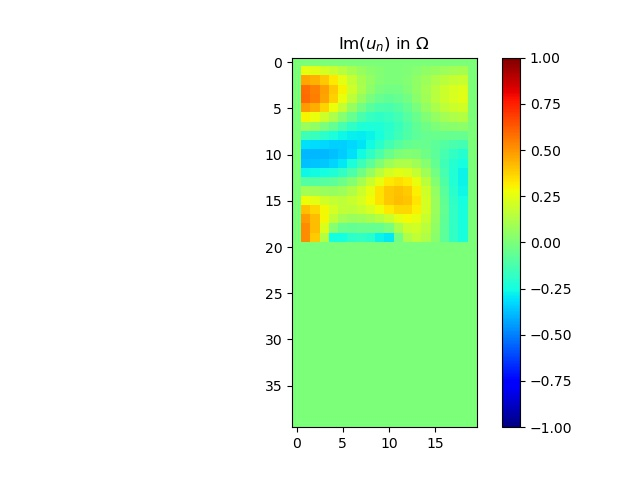
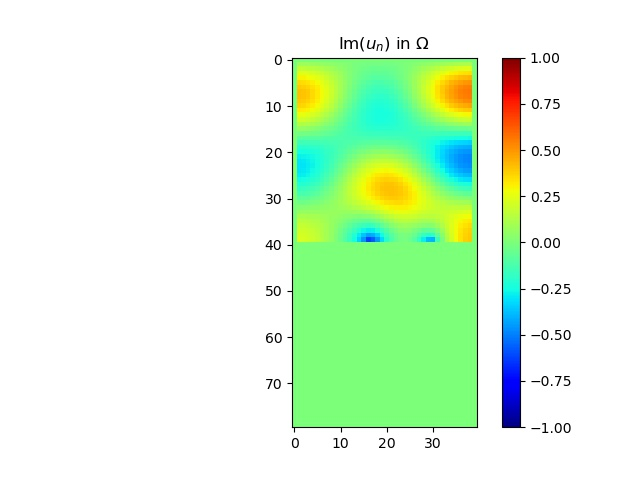
j

diff --git a/demo_control_polycopie.py b/demo_control_polycopie.py
@@ -26,8 +26,8 @@ def your_optimization_procedure(domain_omega, spacestep, wavenumber, f, f_dir, f
                                 beta_pde, alpha_pde, alpha_dir, beta_neu, beta_rob, alpha_rob,
                                 Alpha, mu, chi, V_obj, mu1, V_0):
 
-    eps1 = 0.01
-    eps2 = 0.01
+    eps1 = 1
+    eps2 = 0.03
     eps0 = 0.00001
     """This function return the optimized density.
 
@@ -58,48 +58,55 @@ def your_optimization_procedure(domain_omega, spacestep, wavenumber, f, f_dir, f
         # # ubis = u/numpy.max(numpy.abs(u))
         # postprocessing._plot_perso_solution(p, chi)
 
-        print('2. computing solution of adjoint problem, i.e., p')
+        # print('2. computing solution of adjoint problem, i.e., p')
         p = processing.solve_helmholtz(domain_omega, spacestep, wavenumber, -2 * numpy.conj(u), numpy.zeros(
             (M, N)), f_neu, f_rob, beta_pde, alpha_pde, alpha_dir, beta_neu, beta_rob, alpha_rob)
 
-        print('3. computing objective function, i.e., energy')
+        # print('3. computing objective function, i.e., energy')
 
         ene = your_compute_objective_function(
             domain_omega, u, spacestep, mu1, V_0)
+
+        print('1st energy = ', ene)
+
         energy[k] = ene
 
-        print('4. computing parametric gradient')
+        # print('4. computing parametric gradient')
 
         Jp = -numpy.real(Alpha*u*p)
 
         Jp[1:, :] = Jp[:-1, :]
 
-        print(Jp)
-
-        postprocessing._plot_perso_solution(Jp, chi*0)
-
         while ene >= energy[k] and mu > eps0:
             l = 0
-            print('    a. computing gradient descent')
+            # print('    a. computing gradient descent')
             chi_next = projector(chi-mu*Jp, l, domain_omega)
 
-            print('    b. computing projected gradient')
+            # postprocessing._plot_perso_solution(chi_next, chi*0)
 
-            while abs(integral(chi_next)-V_obj) >= eps1:
-                if integral(chi_next) > V_obj:
+            # print('    b. computing projected gradient')
+
+            int = integral(chi_next)
+            while abs(int-V_obj) >= eps1:
+                if int > V_obj:
                     l -= eps2
                 else:
                     l += eps2
                 chi_next = projector(chi-mu*Jp, l, domain_omega)
+                int = integral(chi_next)
 
-            print('    c. computing solution of Helmholtz problem, i.e., u')
-            alpha_rob = Alpha * chi
+            # print('    c. computing solution of Helmholtz problem, i.e., u')
+            alpha_rob = Alpha * chi_next
             u = processing.solve_helmholtz(domain_omega, spacestep, wavenumber, f, f_dir, f_neu,
                                            f_rob, beta_pde, alpha_pde, alpha_dir, beta_neu, beta_rob, alpha_rob)
 
-            print('    d. computing objective function, i.e., energy (E)')
+            # print('    d. computing objective function, i.e., energy (E)')
             ene = your_compute_objective_function(
                 domain_omega, u, spacestep, mu1, V_0)
+
+            postprocessing._plot_perso_solution(u, chi*0)
+            print("Energy = ", ene)
+
             energy[k+1] = ene
 
             if ene < energy[k]:
@@ -170,7 +177,7 @@ if __name__ == '__main__':
     # -- Fell free to modify the function call in this cell.
     # ----------------------------------------------------------------------
     # -- set parameters of the geometry
-    N = 20  # number of points along x-axis
+    N = 40  # number of points along x-axis
     M = 2 * N  # number of points along y-axis
     level = 0  # level of the fractal : limited by N
     spacestep = 1.0 / N  # mesh size
@@ -212,7 +219,7 @@ if __name__ == '__main__':
 
     # -- define subset of border on which we put the liner
     # modify this to change liners distribution
-    indices = list(range((len(x)-1)//5, 3*(len(x)-1)//5))
+    indices = list(range(2*(len(x)-1)//5, 4*(len(x)-1)//5))
 
     # budget : percentage of the border we can cover with liners
     budget = len(indices)/len(x)
